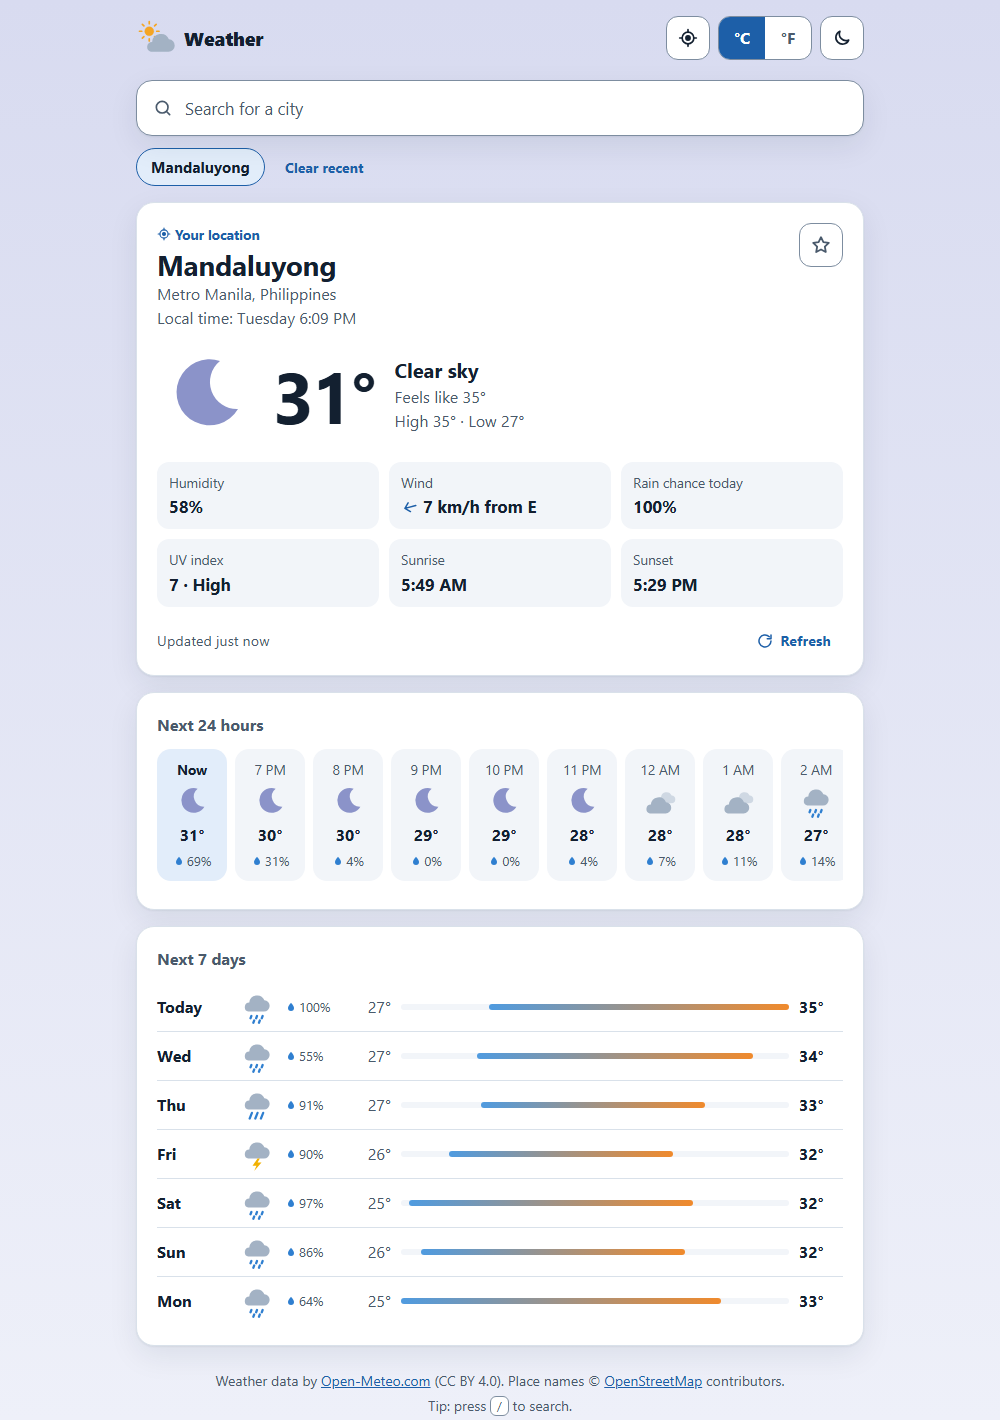
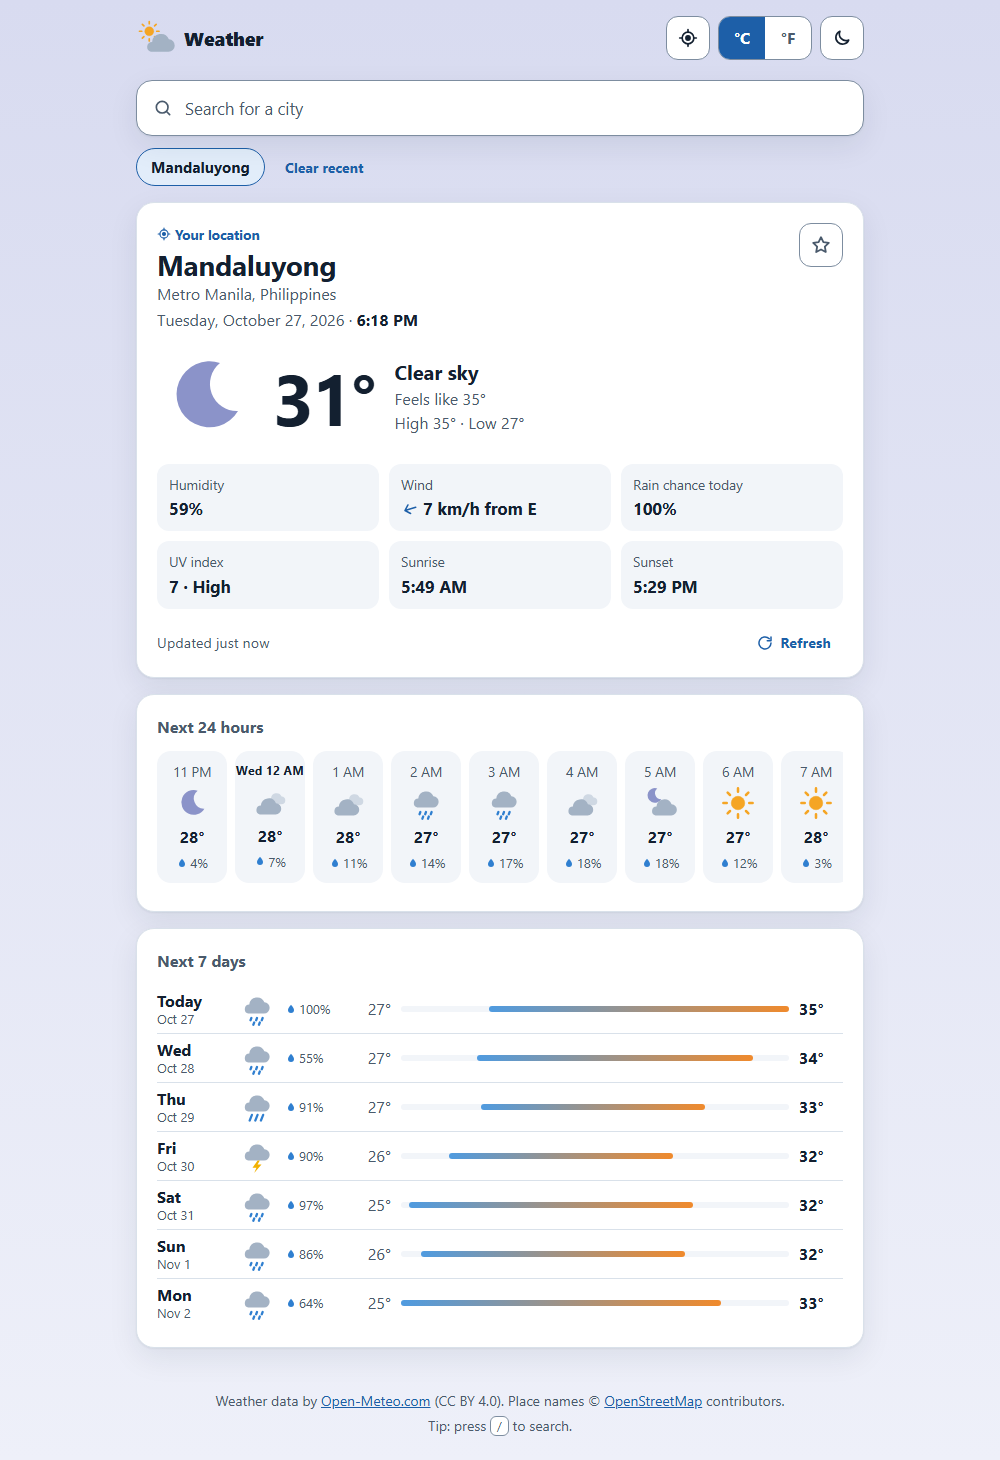
Show the date and time of the place
- The weather card shows the place's own date and clock, e.g.
  "Tuesday, October 27, 2026 · 6:18 PM", updated at the start of
  every minute. It uses the time zone Open-Meteo sends.
- The 7-day rows show the date under the weekday ("Wed / Oct 28").
- The 24-hour strip labels midnight with the new day ("Wed 12 AM").

Changed region(s): [[0.124, 0.0, 0.868, 1.0], [0.62, 0.3099, 0.744, 0.4338], [0.651, 0.0, 0.868, 0.062]]

diff --git a/weather/static/app.js b/weather/static/app.js
@@ -85,6 +85,7 @@
     announcer: byId("announcer"),
     placeName: byId("place-name"),
     placeRegion: byId("place-region"),
+    localDate: byId("local-date"),
     localTime: byId("local-time"),
     favourite: byId("favourite"),
     currentIcon: byId("current-icon"),
@@ -248,17 +249,27 @@
     hour: new Intl.DateTimeFormat("en", { hour: "numeric", timeZone: "UTC" }), // "3 PM"
     clock: new Intl.DateTimeFormat("en", { hour: "numeric", minute: "2-digit", timeZone: "UTC" }), // "5:49 AM"
     weekday: new Intl.DateTimeFormat("en", { weekday: "short", timeZone: "UTC" }), // "Wed"
+    shortDate: new Intl.DateTimeFormat("en", { month: "short", day: "numeric", timeZone: "UTC" }), // "Oct 28"
   };
 
-  // The real time there right now. timezone is a name like "Asia/Manila".
-  function localNow(timezone) {
+  // The real date and time there right now, e.g. {date: "Tuesday, October 27, 2026", time: "6:09 PM"}.
+  // timezone is a name like "Asia/Manila"; Open-Meteo sends it with the forecast.
+  function localNow(timezone, fallbackTime) {
+    let now = new Date();
+    let zone = timezone;
     try {
-      return new Intl.DateTimeFormat("en", {
-        weekday: "long", hour: "numeric", minute: "2-digit", timeZone: timezone,
-      }).format(new Date());
+      new Intl.DateTimeFormat("en", { timeZone: timezone });
     } catch (e) {
-      return ""; // a time zone name this browser doesn't know
+      // A time zone name this browser doesn't know: use the time Open-Meteo sent instead.
+      now = placeDate(fallbackTime);
+      zone = "UTC";
     }
+    return {
+      date: new Intl.DateTimeFormat("en", {
+        weekday: "long", month: "long", day: "numeric", year: "numeric", timeZone: zone,
+      }).format(now),
+      time: new Intl.DateTimeFormat("en", { hour: "numeric", minute: "2-digit", timeZone: zone }).format(now),
+    };
   }
 
   function timeAgo(time) {
@@ -452,7 +463,12 @@
   function renderHours(hours) {
     el.hourly.replaceChildren(...hours.map(function (hour, index) {
       const item = fromTemplate(el.hourTemplate);
-      item.querySelector(".hour-time").textContent = index === 0 ? "Now" : formats.hour.format(placeDate(hour.time));
+      const time = placeDate(hour.time);
+      let label = formats.hour.format(time);
+      if (index === 0) label = "Now";
+      else if (hour.time.endsWith("T00:00")) label = formats.weekday.format(time) + " " + label; // a new day starts: "Wed 12 AM"
+      item.querySelector(".hour-time").textContent = label;
+      item.classList.toggle("new-day", index > 0 && hour.time.endsWith("T00:00"));
       setIcon(item.querySelector(".wx-icon"), hour.condition.icon);
       item.querySelector(".hour-label").textContent = hour.condition.label;
       item.querySelector(".hour-temp").textContent = degrees(hour.temperature);
@@ -470,7 +486,9 @@
 
     el.daily.replaceChildren(...days.map(function (day, index) {
       const item = fromTemplate(el.dayTemplate);
-      item.querySelector(".day-name").textContent = index === 0 ? "Today" : formats.weekday.format(placeDate(day.date));
+      const date = placeDate(day.date);
+      item.querySelector(".day-weekday").textContent = index === 0 ? "Today" : formats.weekday.format(date);
+      item.querySelector(".day-date").textContent = formats.shortDate.format(date);
       setIcon(item.querySelector(".wx-icon"), day.condition.icon);
       item.querySelector(".day-label").textContent = day.condition.label;
       item.querySelector(".day-rain").textContent = percent(day.precipitation_chance);
@@ -483,14 +501,23 @@
     }));
   }
 
-  // The clock and "Updated 3 minutes ago" keep moving while the page is open.
+  // The clock, the date and "Updated 3 minutes ago" keep moving while the page is open.
   function tick() {
     if (!state.shown) return;
-    const time = localNow(state.shown.data.timezone);
-    el.localTime.textContent = time ? "Local time: " + time : "";
+    const now = localNow(state.shown.data.timezone, state.shown.data.time);
+    el.localDate.textContent = now.date;
+    el.localTime.textContent = now.time;
     el.updated.textContent = "Updated " + timeAgo(state.shown.loadedAt);
   }
-  setInterval(tick, 30000);
+
+  // Tick right after each new minute starts, so the clock is never a minute behind.
+  function tickEveryMinute() {
+    setTimeout(function () {
+      tick();
+      tickEveryMinute();
+    }, 60000 - (Date.now() % 60000) + 50);
+  }
+  tickEveryMinute();
 
   // ---------- Units ----------
 

diff --git a/weather/static/style.css b/weather/static/style.css
@@ -490,6 +490,8 @@ button { font: inherit; }
 
 .current-head { display: flex; align-items: flex-start; justify-content: space-between; gap: 12px; }
 .current-head h1 { font-size: 1.75rem; line-height: 1.2; letter-spacing: -0.01em; }
+.place-clock { margin-top: 2px; color: var(--muted); }
+.place-clock strong { color: var(--text); }
 
 .here-badge {
   display: inline-flex;
@@ -570,7 +572,9 @@ button { font: inherit; }
 }
 .hour:first-child { background: var(--accent-soft); }
 .hour-time { font-size: 0.85rem; color: var(--muted); }
-.hour:first-child .hour-time { color: var(--text); font-weight: 700; }
+.hour:first-child .hour-time,
+.hour.new-day .hour-time { color: var(--text); font-weight: 700; }
+.hour.new-day .hour-time { white-space: nowrap; font-size: 0.78rem; } /* "Wed 12 AM" fits the tile */
 .hour-temp { font-weight: 700; }
 
 .rain-chance { display: inline-flex; align-items: center; gap: 2px; font-size: 0.8rem; color: var(--muted); }
@@ -589,7 +593,8 @@ button { font: inherit; }
   border-top: 1px solid var(--border);
 }
 .day:first-child { border-top: 0; }
-.day-name { font-weight: 700; }
+.day-name { display: flex; flex-direction: column; line-height: 1.25; font-weight: 700; }
+.day-date { color: var(--muted); font-size: 0.8rem; font-weight: 400; }
 .day-low { color: var(--muted); text-align: right; }
 .day-high { font-weight: 700; }
 

diff --git a/weather/templates/index.html b/weather/templates/index.html
@@ -103,7 +103,11 @@
           <p class="here-badge" id="here-badge" hidden>{{ icon("i-locate", size=14) }} Your location</p>
           <h1 id="place-name"></h1>
           <p class="muted" id="place-region"></p>
-          <p class="muted" id="local-time"></p>
+          {# The place's own date and clock (Manila's time for Manila, Tokyo's for Tokyo). #}
+          <p class="place-clock">
+            <span class="visually-hidden">Local date and time: </span>
+            <span id="local-date"></span><span aria-hidden="true"> · </span><strong id="local-time"></strong>
+          </p>
         </div>
         <button type="button" class="icon-button favourite" id="favourite" aria-label="Favourite" aria-pressed="false">
           {{ icon("i-star", size=22) }}
@@ -162,7 +166,7 @@
   </template>
   <template id="day-template">
     <li class="day">
-      <span class="day-name"></span>
+      <span class="day-name"><span class="day-weekday"></span><span class="day-date"></span></span>
       <svg class="wx-icon" width="36" height="36" aria-hidden="true" focusable="false"><use></use></svg>
       <span class="visually-hidden day-label"></span>
       <span class="rain-chance">{{ icon("i-drop", class="ui-icon drop", size=12) }}<span class="visually-hidden">Rain chance </span><span class="day-rain"></span></span>

diff --git a/tests/test_views.py b/tests/test_views.py
@@ -28,6 +28,7 @@ def test_home_page(client):
     assert "open-meteo.com" in html  # Open-Meteo's licence asks for credit
     assert "openstreetmap.org/copyright" in html  # so does OpenStreetMap's
     assert 'id="welcome-locate"' in html
+    assert 'id="local-date"' in html and 'id="local-time"' in html
 
 
 def test_every_weather_icon_has_a_drawing(client):

diff --git a/AGENTS.md b/AGENTS.md
@@ -41,6 +41,7 @@ The browser calls only our own `/api/...` routes; Flask calls Open-Meteo.
   - Start: the URL (`?name=&region=&lat=&lon=&here=1`) wins. Otherwise `startWithMyLocation()` runs: it skips asking if the permission is already `denied`, else calls `locateMe(true)`. On failure `fallBack()` loads `weather.lastPlace`, or else shows the welcome card's message (`setWelcome()`). There are no example cities.
   - `locateMe(auto)` gets the position, then `nameOf()` asks `/api/place` (6 s timeout). If the name lookup fails, the place is `{name: "Your location", unnamed: true}`, with no star and not in recent. Never show raw coordinates. Places from geolocation have `isMyLocation` (the "Your location" badge). `loadWeather()` calls `stopLocating()`, so a city picked while the location is still loading wins.
   - It refreshes when the tab comes back after 10 minutes, and when the browser comes back online.
+  - Date and time: `localNow(timezone, fallbackTime)` gives the place's current date and clock, using the IANA `timezone` from the forecast (or Open-Meteo's `time` if the browser doesn't know the zone). `tick()` runs at the start of every minute (`tickEveryMinute()`). Forecast times are already in the place's clock, so they are formatted with `placeDate()` + `timeZone: "UTC"`. The 7-day rows show the weekday and date; the hourly strip labels midnight "Wed 12 AM" (`.new-day`).
   - DOM text goes in with `textContent`, never `innerHTML`.
 - `body[data-mood]` (from the condition's `mood`) picks the page gradient (`--sky-*`).
 

diff --git a/README.md b/README.md
@@ -11,9 +11,10 @@ The weather data comes from [Open-Meteo](https://open-meteo.com/). Open-Meteo is
 - **Your location first.** When you open the app, it shows the weather where you are, with the name of your town (for example "Mandaluyong"). The browser asks you first.
 - **Search** for a city. Use the arrow keys and Enter, or click a place.
 - Go back to your location with the 📍 button.
+- See the **date and time** in that place, for example "Tuesday, October 27, 2026 · 6:18 PM". The clock moves every minute.
 - See the weather **now**: temperature, "feels like", humidity, wind, rain chance, UV, sunrise and sunset.
-- See the **next 24 hours**. Swipe or scroll the row.
-- See the **next 7 days**. The bar shows the lowest and the highest temperature.
+- See the **next 24 hours**. Swipe or scroll the row. At midnight you see the new day ("Wed 12 AM").
+- See the **next 7 days**, with the date of each day. The bar shows the lowest and the highest temperature.
 - Change **°C / °F**. The app remembers your choice.
 - **Favourites** (★) and **recent** cities. Click one to open it again.
 - **Light and dark** mode.
